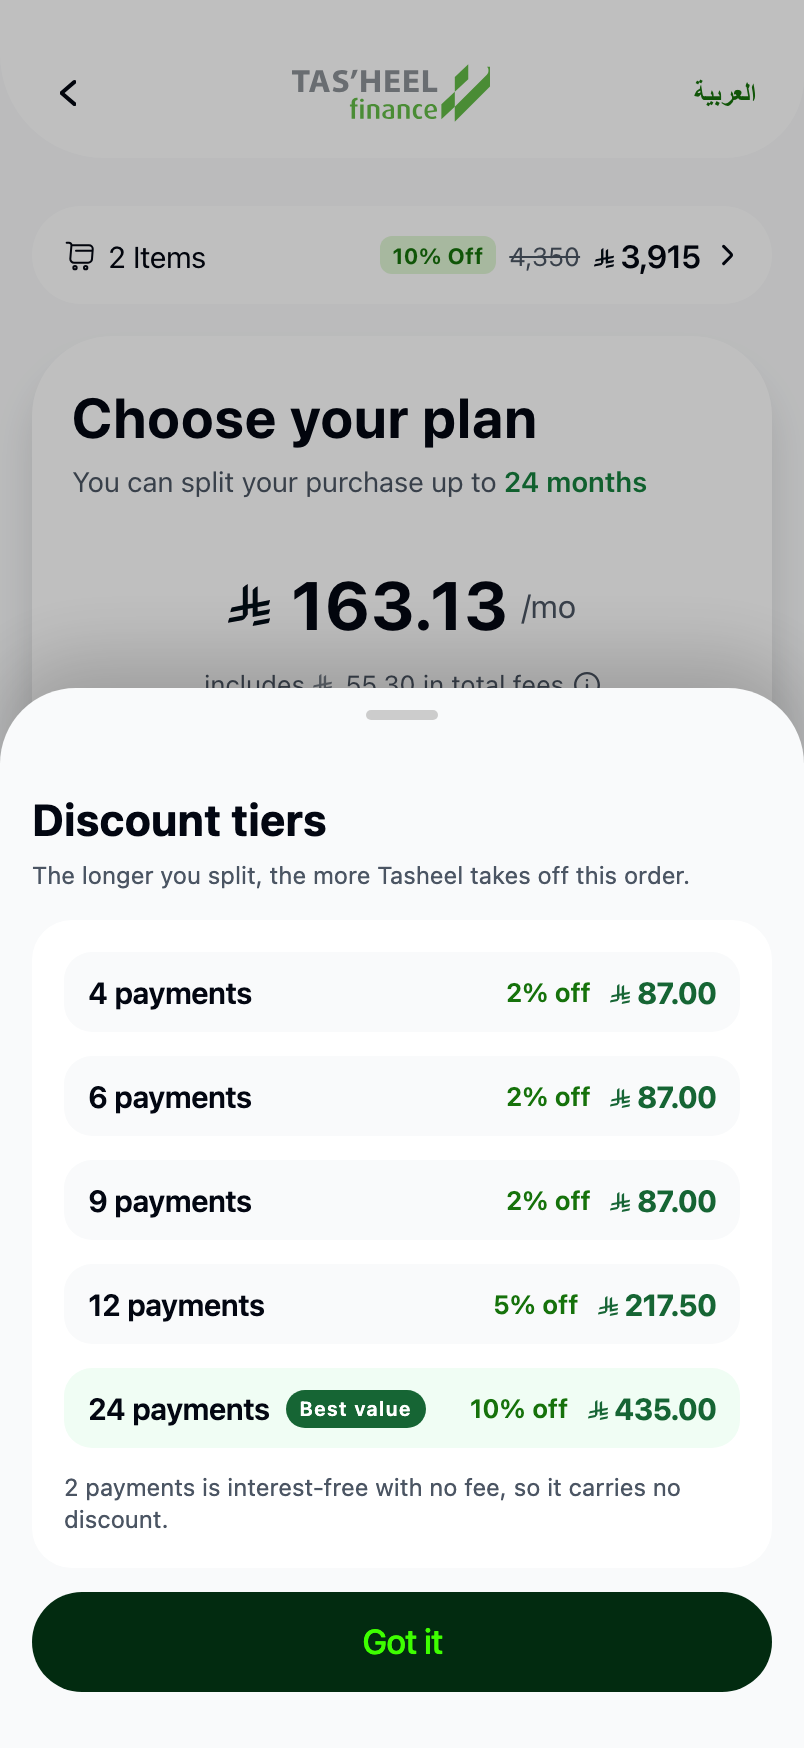
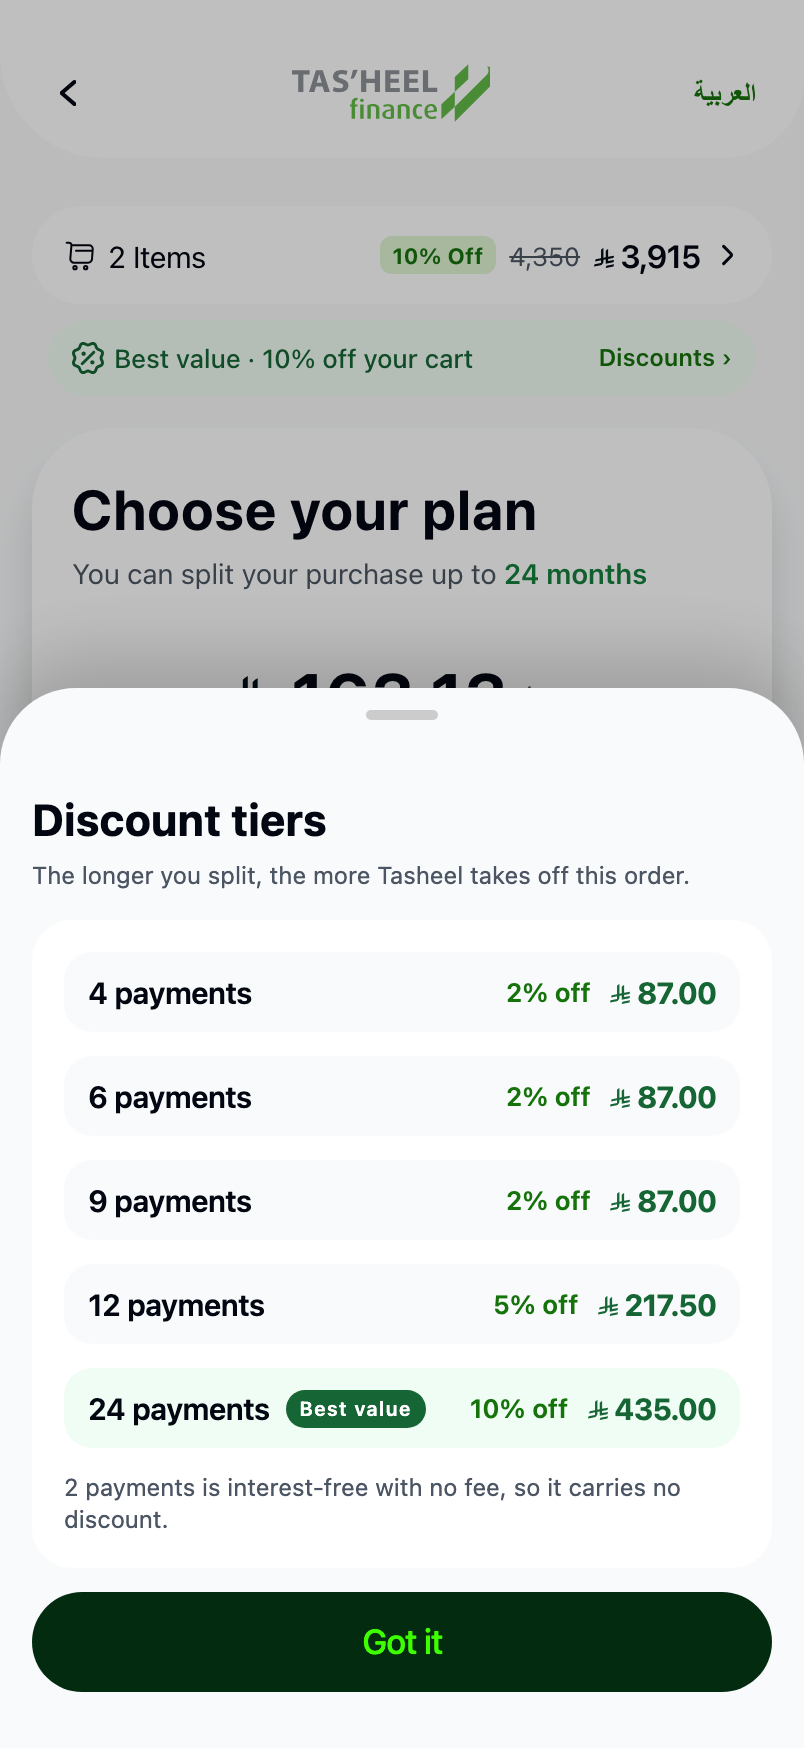
Move the saving strip up under the cart pill
The discount belongs next to the amount it comes off, not buried under the
tenure rail. The strip now rides directly beneath the cart pill as page
furniture (slightly inset so it reads as attached to it), and the plan card
is left to do one job: pick a tenure, see the monthly.

Changed region(s): [[0.0933, 0.1854, 0.8085, 0.4016], [0.7463, 0.1854, 0.8706, 0.2162], [0.7152, 0.2471, 0.7774, 0.278]]

diff --git a/App.tsx b/App.tsx
@@ -1630,7 +1630,14 @@ function WcTenure({ setRoute, months, setMonths }: { setRoute: (r: RouteKey) => 
         <ScreenFade>
           <WcOnboardHeader onClose={() => setRoute('checkout')} onBack={() => setRoute('wcDemo')} />
           <View style={styles.wcTenureContent}>
-            <WcCartPill onPress={() => setSheet('cart')} months={months} />
+            {/* Cart, then the discount it earned — the saving belongs next to the
+                amount it comes off, not buried under the tenure rail. */}
+            <View style={{ gap: 8 }}>
+              <WcCartPill onPress={() => setSheet('cart')} months={months} />
+              <View style={styles.wcSavingStripTop}>
+                <WcSavingStrip months={months} onViewDiscounts={() => setSheet('discounts')} />
+              </View>
+            </View>
             <View style={styles.wcPlanCard}>
               <View style={{ gap: 6, width: '100%' }}>
                 <Text style={styles.wcPlanTitle}>Choose your plan</Text>
@@ -1662,7 +1669,6 @@ function WcTenure({ setRoute, months, setMonths }: { setRoute: (r: RouteKey) => 
                 </FadeSwap>
                 <View style={{ gap: 8, width: '100%', alignItems: 'center' }}>
                   <WcTenureRail months={months} onSelect={bump} />
-                  <WcSavingStrip months={months} onViewDiscounts={() => setSheet('discounts')} />
                   <WcBestPlanNudge months={months} onSelect={bump} />
                 </View>
               </View>
@@ -4722,6 +4728,9 @@ const styles = StyleSheet.create({
   wcPlanFeesRow: { flexDirection: 'row', alignItems: 'center', justifyContent: 'center', gap: 5 },
   // Figma 3529:83365 — saving strip
   wcSavingStrip: { alignSelf: 'stretch', backgroundColor: '#f0fdf4', borderRadius: 999, paddingHorizontal: 12, paddingVertical: 10, flexDirection: 'row', alignItems: 'center', justifyContent: 'space-between', gap: 8 },
+  // Riding under the cart pill it is page furniture, not card furniture: inset a
+  // little so it reads as attached to the pill above it.
+  wcSavingStripTop: { paddingHorizontal: 8 },
   wcSavingStripBest: { paddingHorizontal: 10 },
   wcSavingLeft: { flexDirection: 'row', alignItems: 'center', gap: 5, flexShrink: 1 },
   wcSavingText: { fontSize: 13, lineHeight: 18, fontWeight: '500', color: greenMid, letterSpacing: -0.08 },
